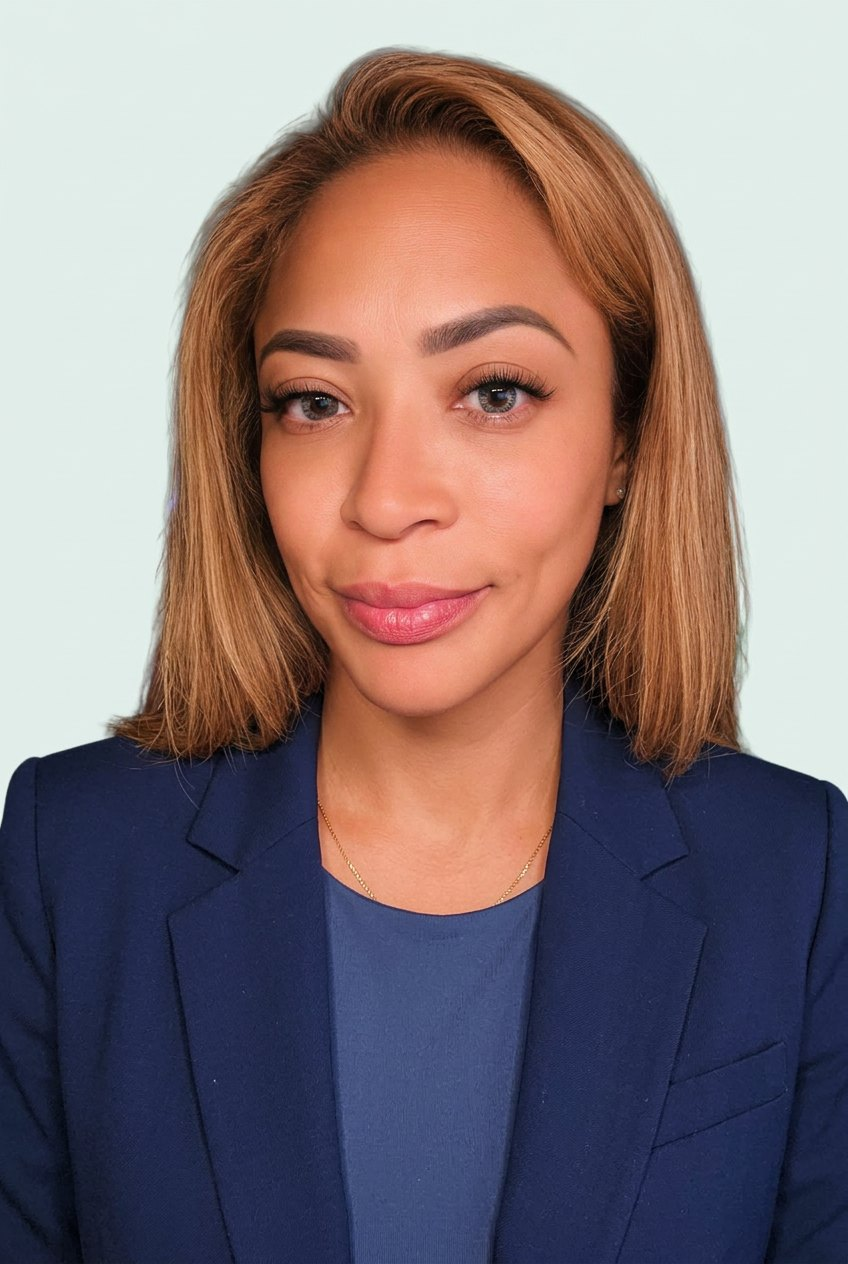
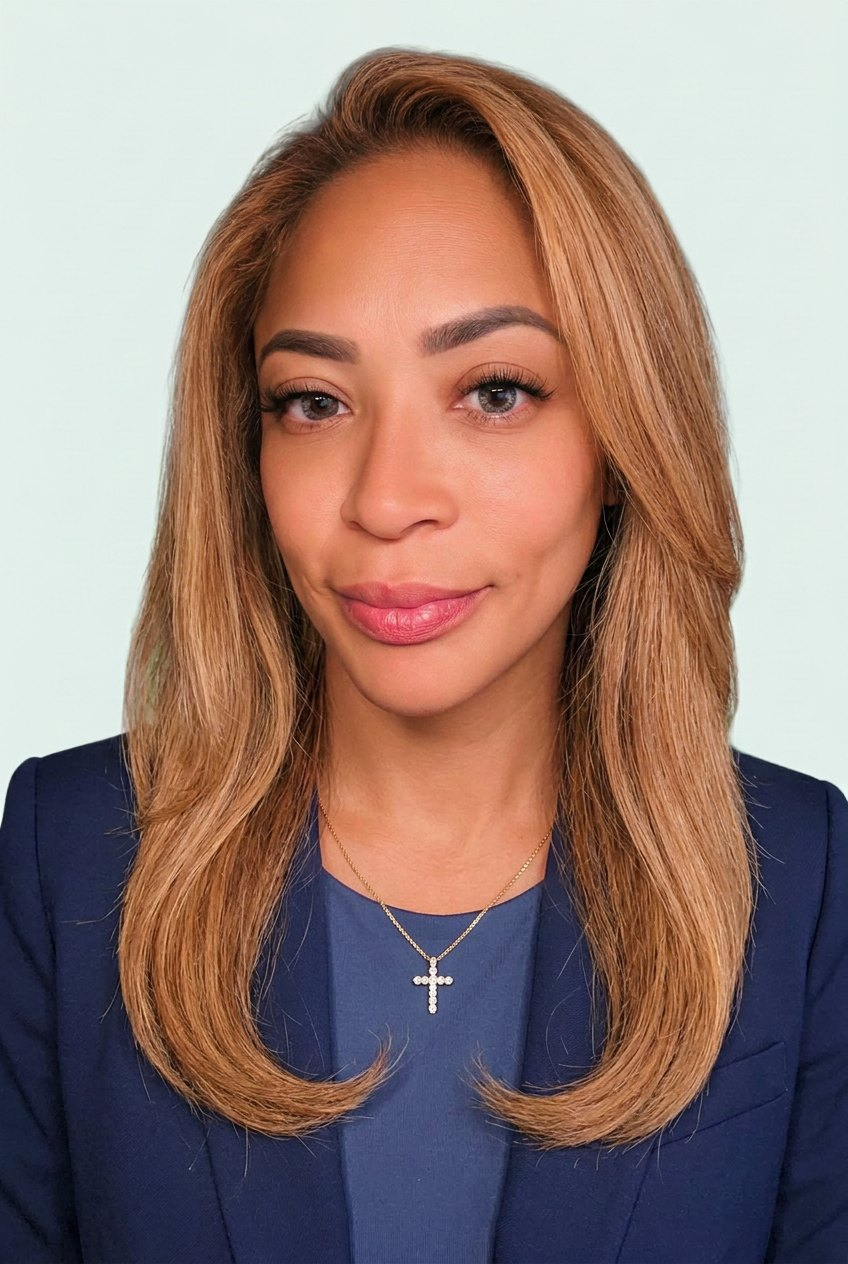
Update hero headshot to final approved version with diamond cross and forward hair

diff --git a/PHOTO-NOTES.md b/PHOTO-NOTES.md
@@ -1,0 +1,14 @@
+# Headshot files — what's what
+
+- **headshot.jpg** — the version LIVE on the website (compressed for fast loading). Currently: navy blazer, hair forward, diamond cross (from headshot-cross.png).
+- **headshot-cross.png** — THE APPROVED FINAL (July 19, 2026): blazer + hair forward + diamond cross pendant. Made in one edit from headshot-blazer.png to keep the face faithful.
+- **headshot-blazer.png** — first AI blazer edit (hair back, no cross). Face approved.
+- **headshot-blazer-hair.png / headshot-final.png / headshot-final-v2.png** — experiments; the last two had face drift (each AI generation on top of another drifts further from the real face — always regenerate from an approved version, not from a drifted one).
+- **headshot-original.jpg** — cleaned-up real photo (background removed, soft green backdrop).
+- **Sue's Headshot.jpg** — the untouched original photo.
+
+## To change the site photo
+Overwrite `headshot.jpg` with any image (keep the name), then commit and push. The site updates automatically in ~1 minute.
+
+## How the blazer edit was made
+Photoshop 2026 → Home screen → "Prompt to edit" → Select image → type prompt → Generate (~20 Firefly credits per generation) → Download.